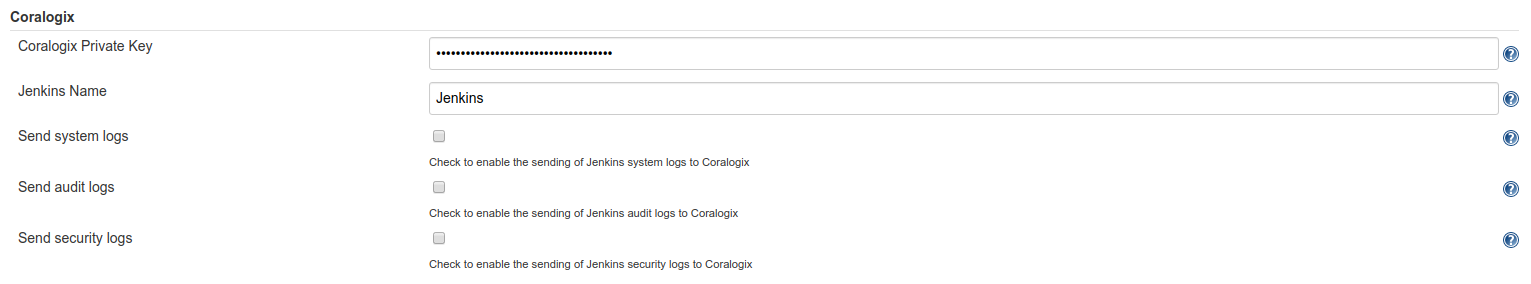
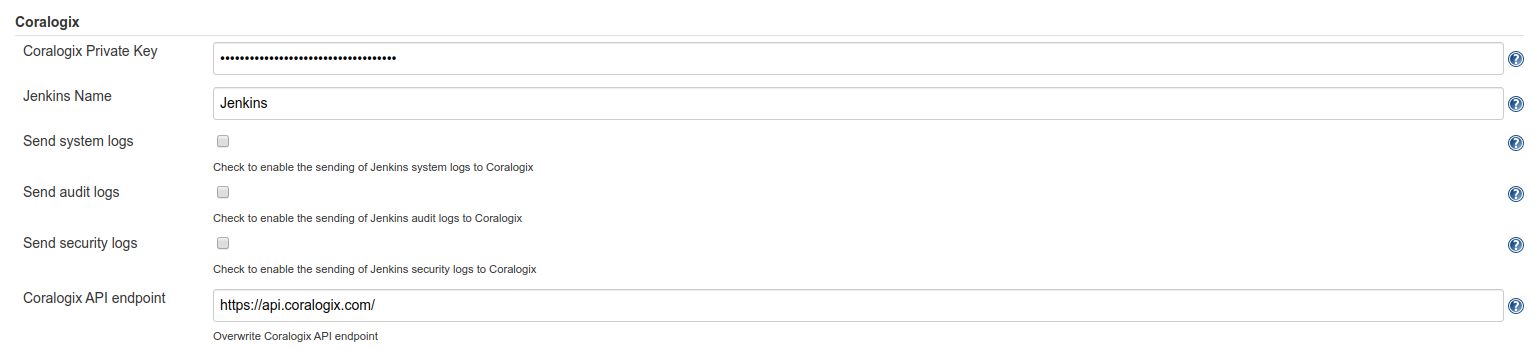
Coralogix API endpoint parameter added (#4)

diff --git a/src/main/resources/com/coralogix/jenkins/CoralogixConfiguration/help-apiEndpoint.html b/src/main/resources/com/coralogix/jenkins/CoralogixConfiguration/help-apiEndpoint.html
@@ -1,0 +1,4 @@
+<div>
+    Overwrite Coralogix API endpoint.</br>
+    Make sure that URL ends with trailing slash.
+</div>

diff --git a/src/main/java/com/coralogix/jenkins/CoralogixConfiguration.java b/src/main/java/com/coralogix/jenkins/CoralogixConfiguration.java
@@ -43,6 +43,11 @@ public class CoralogixConfiguration extends GlobalConfiguration {
     private Boolean securityLogsEnabled = false;
 
     /**
+     * Coralogix API endpoint
+     */
+    private String apiEndpoint = "https://api.coralogix.com/";
+
+    /**
      * Global configuration getter
      *
      * @return global configuration values
@@ -104,6 +109,15 @@ public class CoralogixConfiguration extends GlobalConfiguration {
     }
 
     /**
+     * Coralogix API endpoint getter
+     *
+     * @return the currently configured Coralogix API endpoint
+     */
+    public String getApiEndpoint() {
+        return this.apiEndpoint;
+    }
+
+    /**
      * Coralogix Private Key setter
      *
      * @param privateKey the new value of the Private Key
@@ -159,6 +173,17 @@ public class CoralogixConfiguration extends GlobalConfiguration {
     }
 
     /**
+     * Coralogix API endpoint setter
+     *
+     * @param apiEndpoint the new value of the Coralogix API endpoint
+     */
+    @DataBoundSetter
+    public void setApiEndpoint(String apiEndpoint) {
+        this.apiEndpoint = apiEndpoint;
+        save();
+    }
+
+    /**
      * Coralogix Private Key validator
      *
      * @param privateKey Coralogix Private Key
@@ -180,6 +205,19 @@ public class CoralogixConfiguration extends GlobalConfiguration {
     public FormValidation doCheckJenkinsName(@QueryParameter String jenkinsName) {
         if (StringUtils.isEmpty(jenkinsName)) {
             return FormValidation.error("You must provide the Jenkins name");
+        }
+        return FormValidation.ok();
+    }
+
+    /**
+     * Coralogix API endpoint validator
+     *
+     * @param apiEndpoint Coralogix API endpoint
+     * @return Coralogix API endpoint validation status
+     */
+    public FormValidation doCheckApiEndpoint(@QueryParameter String apiEndpoint) {
+        if (!StringUtils.startsWithAny(apiEndpoint, new String[]{"https://", "http://"}) || !StringUtils.endsWith(apiEndpoint, "/")) {
+            return FormValidation.error("Incorrect Coralogix API endpoint");
         }
         return FormValidation.ok();
     }

diff --git a/src/main/java/com/coralogix/jenkins/utils/CoralogixAPI.java b/src/main/java/com/coralogix/jenkins/utils/CoralogixAPI.java
@@ -22,6 +22,7 @@ import org.apache.http.client.methods.HttpPost;
 import org.apache.http.impl.client.CloseableHttpClient;
 import org.apache.http.impl.client.HttpClients;
 import org.apache.http.entity.StringEntity;
+import com.coralogix.jenkins.CoralogixConfiguration;
 import com.coralogix.jenkins.model.Log;
 import com.coralogix.jenkins.model.Bulk;
 
@@ -48,7 +49,7 @@ public class CoralogixAPI {
         CloseableHttpClient httpclient = HttpClients.createDefault();
         try {
             HttpGet request = new HttpGet(String.format(
-                    "https://api.coralogix.com/api/v1/addTag?key=%s&application=%s&subsystem=%s&name=%s&iconUrl=%s",
+                    CoralogixConfiguration.get().getApiEndpoint() + "api/v1/addTag?key=%s&application=%s&subsystem=%s&name=%s&iconUrl=%s",
                     privateKey,
                     application,
                     subsystems,
@@ -72,7 +73,7 @@ public class CoralogixAPI {
     public static void sendLogs(String privateKey, String application, String subsystem, List<Log> logEntries) throws Exception {
         CloseableHttpClient httpclient = HttpClients.createDefault();
         try {
-            HttpPost request = new HttpPost("https://api.coralogix.com/api/v1/logs");
+            HttpPost request = new HttpPost(CoralogixConfiguration.get().getApiEndpoint() + "api/v1/logs");
             request.addHeader("content-type", "application/json");
             request.setEntity(new StringEntity(buildData(privateKey, application, subsystem, logEntries)));
             httpclient.execute(request);

diff --git a/README.md b/README.md
@@ -21,6 +21,9 @@ for sending system/audit/security logs:
 
 ![Coralogix Configuration](docs/images/coralogix_global_configuration.png)
 
+Also, if you use different Coralogix endpoint, you can overwrite it
+as ``Coralogix API endpoint`` under the ``Advanced...`` section.
+
 ## Credentials
 
 Before usage you need to create ``Jenkins`` credentials with
